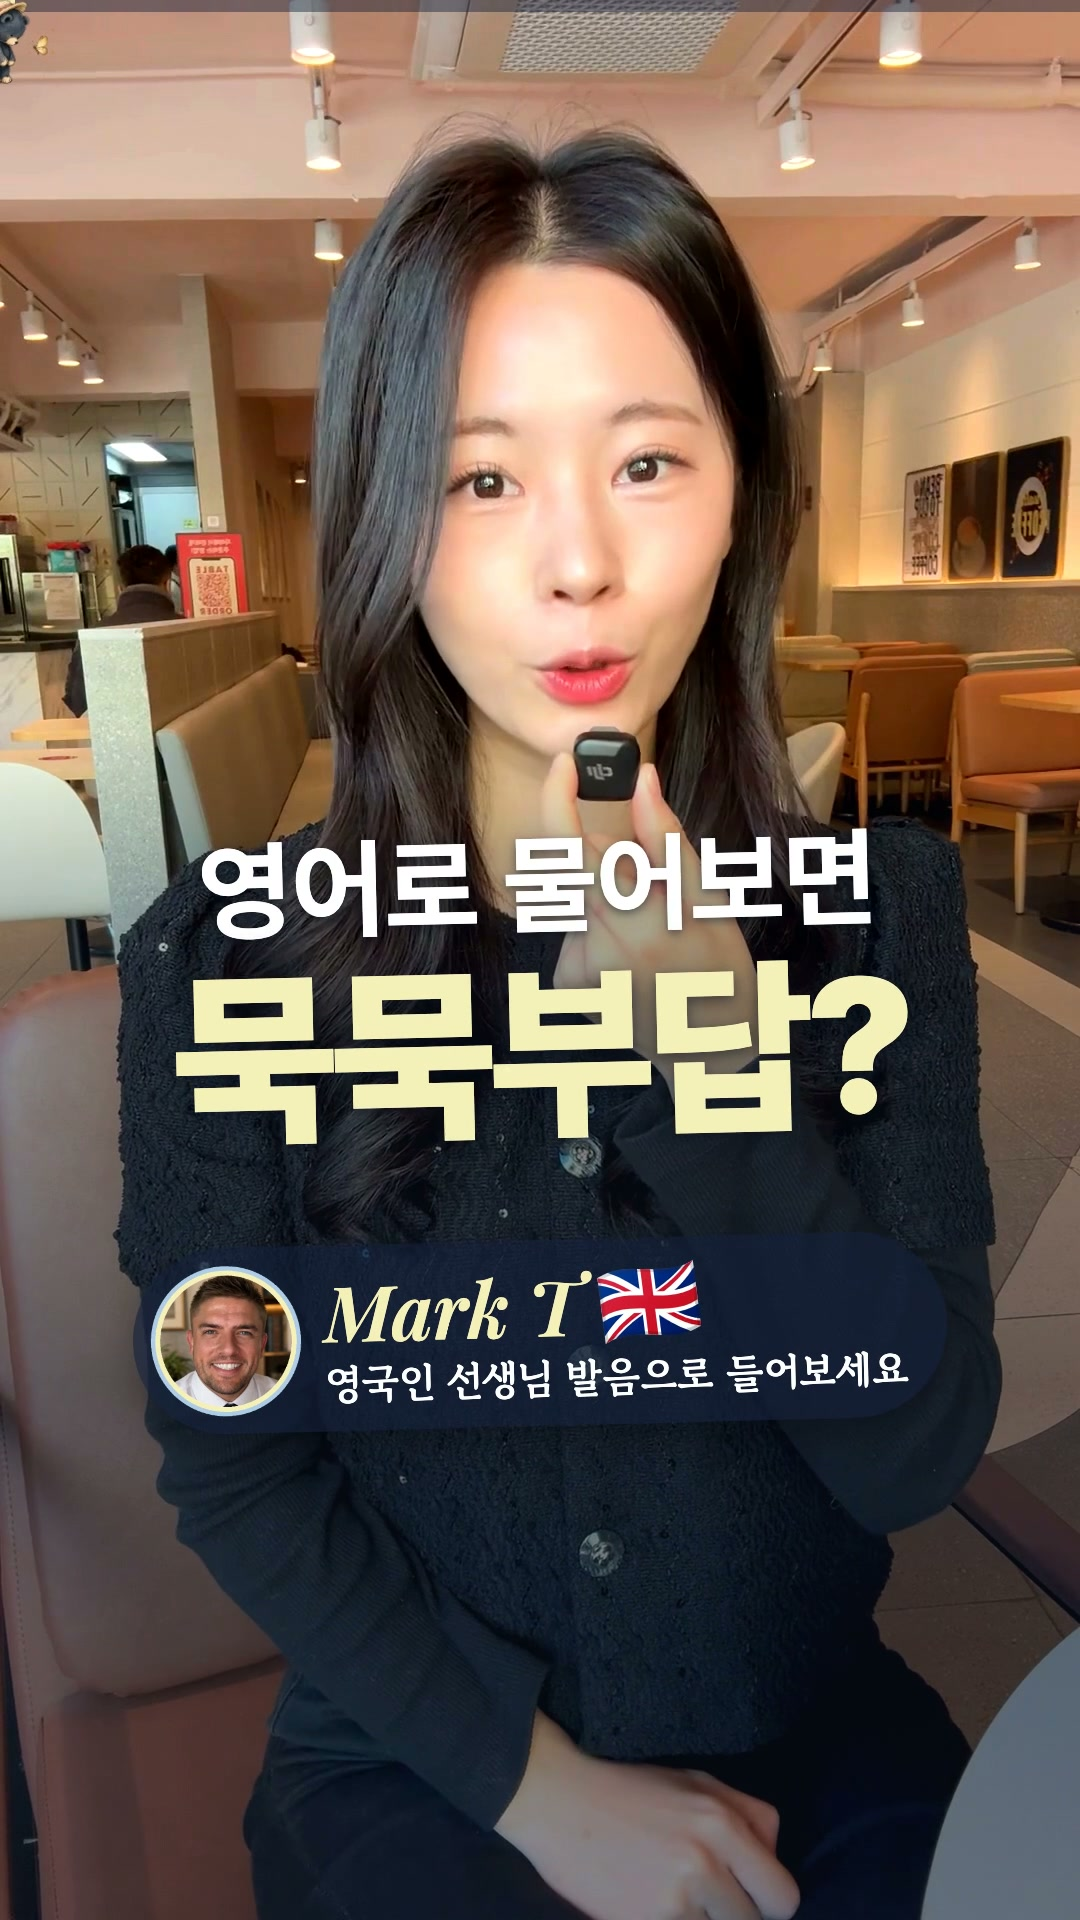
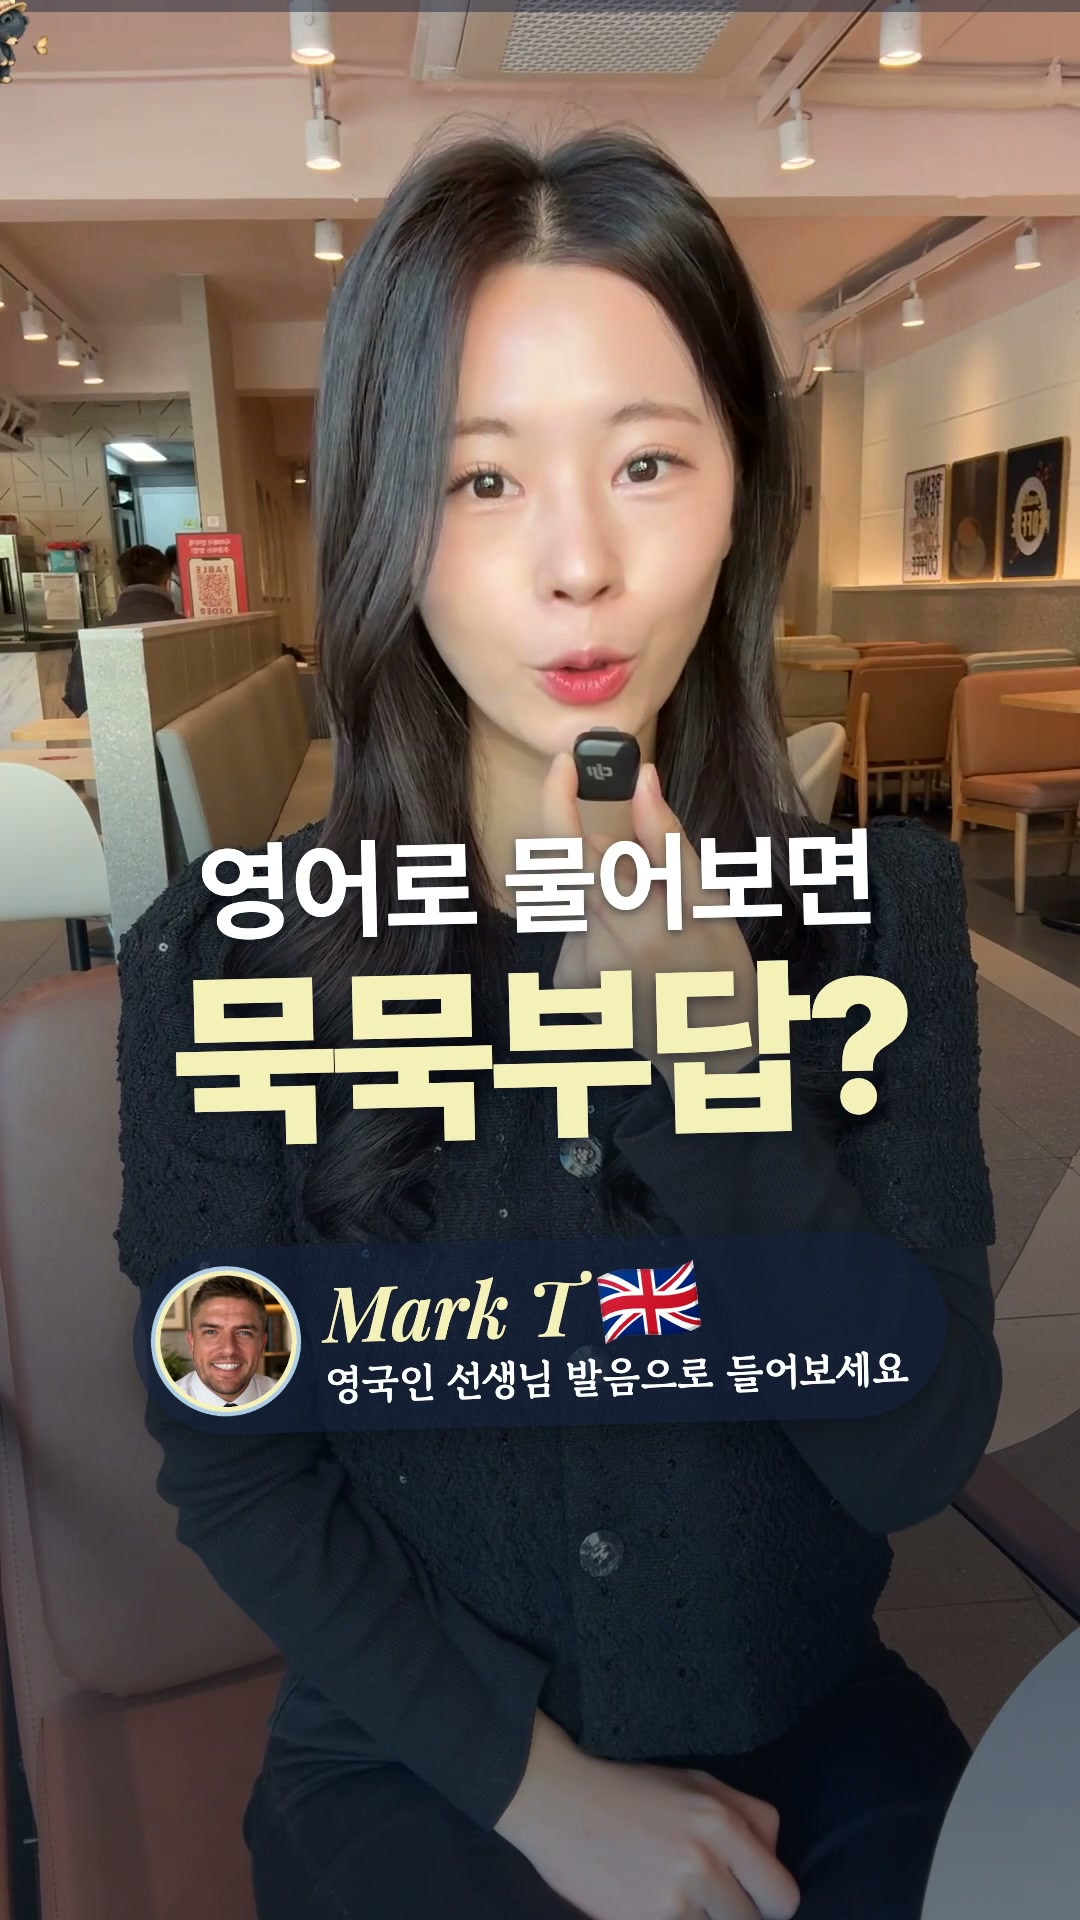
Day 28 v5 (Joy): original colours, clearer Mark lines, louder music

diff --git a/remotion/src/BearJoyReelV2.tsx b/remotion/src/BearJoyReelV2.tsx
@@ -18,6 +18,7 @@ export type PlanV2 = {
   media?: string;
   scrim?: boolean; // dark gradient behind the lower half, for light clothing or bright backgrounds
   slots?: Record<string, {left?: number; right?: number; top: number; rot: number}>; tagPos?: {left: number; top: number}; captionTop?: number;
+  look?: 'original'; // Joy, Day 28: keep the camera's own colours (no grade, grain or vignette)
 };
 
 const C = {navy: '#1E2D4D', ink: '#14203A', yellow: '#F6F0BA', blue: '#AECCE6', gold: '#C9A84C', cream: '#F5F0E6', white: '#FFFFFF', kakao: '#FEE500'};
@@ -387,7 +388,9 @@ export const BearJoyReelV2: React.FC<{plan: PlanV2}> = ({plan}) => {
   const live = (e: Ev, pad = 0.2) => t >= e.s - 0.05 && t <= e.e + pad;
   const cap = plan.captions.find((c) => t >= c.s && t < c.e);
   const camStyle: React.CSSProperties = {position: 'absolute', inset: 0, transform: `translate(${cam.x}px, ${cam.y}px) scale(${cam.z})`, transformOrigin: '50% 36%'};
-  const vid: React.CSSProperties = {width: '100%', height: '100%', objectFit: 'cover', filter: GRADE};
+  const orig = plan.look === 'original';
+  const grade = orig ? 'none' : GRADE;
+  const vid: React.CSSProperties = {width: '100%', height: '100%', objectFit: 'cover', filter: grade};
   // a cream pull-back (Joy, Day 28) keeps the cream clean: fade the vignette and caption scrim while it shows
   const cream = Math.max(0, ...E('pull').filter((e) => e.bg).map((e) => pullAmount(e, t)));
   return (
@@ -398,7 +401,7 @@ export const BearJoyReelV2: React.FC<{plan: PlanV2}> = ({plan}) => {
           <Sequence key={`b${k}`} from={from} durationInFrames={to - from} layout="none">
             <AbsoluteFill style={{opacity: pullAmount(ev, t)}}>
               {ev.bg ? <AbsoluteFill style={{background: ev.bg}} /> : <OffthreadVideo src={staticFile(`${dir}/cut.mov`)} muted trimBefore={from}
-                style={{...vid, transform: 'scale(1.4)', filter: `${GRADE} blur(36px) brightness(.85)`}} />}
+                style={{...vid, transform: 'scale(1.4)', filter: `${orig ? '' : GRADE} blur(36px) brightness(.85)`}} />}
             </AbsoluteFill>
           </Sequence>
         );
@@ -415,8 +418,8 @@ export const BearJoyReelV2: React.FC<{plan: PlanV2}> = ({plan}) => {
           );
         })}
       </div>
-      <AbsoluteFill style={{opacity: 1 - cream, background: 'radial-gradient(130% 85% at 50% 40%, rgba(0,0,0,0) 62%, rgba(20,32,58,.3) 100%)'}} />
-      <Grain frame={frame} />
+      {orig ? null : <AbsoluteFill style={{opacity: 1 - cream, background: 'radial-gradient(130% 85% at 50% 40%, rgba(0,0,0,0) 62%, rgba(20,32,58,.3) 100%)'}} />}
+      {orig ? null : <Grain frame={frame} />}
       {plan.scrim ? <AbsoluteFill style={{opacity: 1 - cream, background: 'linear-gradient(180deg, rgba(10,16,30,0) 38%, rgba(10,16,30,.42) 52%, rgba(10,16,30,.62) 72%, rgba(10,16,30,.45) 100%)'}} /> : null}
       {E('tag').map((ev, k) => (live(ev) ? <Tag key={k} ev={ev} t={t} fps={fps} pos={plan.tagPos} /> : null))}
       {E('cover').map((ev, k) => (live(ev) ? <Cover key={k} ev={ev} t={t} fps={fps} /> : null))}

diff --git a/projects/2026-11-day28-questions/mix.py b/projects/2026-11-day28-questions/mix.py
@@ -13,13 +13,15 @@ V = f"{HERE}/versions/main"
 plan = json.load(open(f"{V}/timeline_v2.json"))
 dur = plan["duration"]
 
-inputs = ["-i", "remotion/public/day28/main/cut.mov", "-ss", str(m0), "-i", music]
+# voice.wav = the cut audio with Mark's lines cleaned (voice.py, Joy 10 Nov 2026); fall back to the raw cut audio
+VOICE = f"{V}/audio/voice.wav" if os.path.exists(f"{V}/audio/voice.wav") else "remotion/public/day28/main/cut.mov"
+inputs = ["-i", VOICE, "-ss", str(m0), "-i", music]
 fc = [
     # Joy's mic voice (and Mark's recorded lines): tidy low end, gentle compression
-    f"[0:a]highpass=f=80,acompressor=threshold=-20dB:ratio=3:attack=8:release=120:makeup=3,apad=whole_dur={dur},asplit=2[voice][key]",
+    f"[0:a]aformat=sample_rates=48000:channel_layouts=stereo,highpass=f=80,acompressor=threshold=-20dB:ratio=3:attack=8:release=120:makeup=3,apad=whole_dur={dur},asplit=2[voice][key]",
     f"[1:a]aformat=sample_rates=48000:channel_layouts=stereo,volume={music_db}dB,atrim=0:{dur},afade=t=in:d=0.4,"
     f"afade=t=out:st={dur - 2.5}:d=2.5[mus0]",
-    "[mus0][key]sidechaincompress=threshold=0.03:ratio=3:attack=25:release=400[mus]",
+    "[mus0][key]sidechaincompress=threshold=0.05:ratio=2:attack=30:release=500[mus]",
 ]
 labels = ["[voice]", "[mus]"]
 for k, cue in enumerate(plan["sfx"]):
@@ -29,10 +31,10 @@ for k, cue in enumerate(plan["sfx"]):
     labels.append(f"[s{k}]")
 fc.append("".join(labels) + f"amix=inputs={len(labels)}:normalize=0:duration=first,atrim=0:{dur}[mix]")
 graph = ";".join(fc)
-m = subprocess.run(["ffmpeg", "-hide_banner", *inputs, "-filter_complex", graph + ";[mix]loudnorm=I=-14:TP=-1.5:LRA=11:print_format=json[o]",
+m = subprocess.run(["ffmpeg", "-hide_banner", *inputs, "-filter_complex", graph + ";[mix]loudnorm=I=-14:TP=-2.5:LRA=11:print_format=json[o]",
                     "-map", "[o]", "-f", "null", "-"], capture_output=True, text=True)
 j = json.loads(re.findall(r"\{[^{}]*\"input_i\"[^{}]*\}", m.stderr)[-1])
-ln = (f"loudnorm=I=-14:TP=-1.5:LRA=11:measured_I={j['input_i']}:measured_TP={j['input_tp']}:measured_LRA={j['input_lra']}:"
+ln = (f"loudnorm=I=-14:TP=-2.5:LRA=11:measured_I={j['input_i']}:measured_TP={j['input_tp']}:measured_LRA={j['input_lra']}:"
       f"measured_thresh={j['input_thresh']}:offset={j['target_offset']}:linear=true")
 os.makedirs(os.path.dirname(os.path.abspath(out)), exist_ok=True)
 shift = lambda g: re.sub(r"\[(\d+):a\]", lambda mm: f"[{int(mm.group(1)) + 1}:a]", g)

diff --git a/projects/2026-11-day28-questions/voice.py b/projects/2026-11-day28-questions/voice.py
@@ -1,0 +1,30 @@
+"""Clearer voice track for Day 28 (Joy, 10 Nov 2026: Mark's English sounded muffled).
+
+Mark's recorded lines reached Joy's mic through the room, so they are boomy and smeared. For his lines only:
+DeepFilterNet (noise + room reduction), then the Day 25 clarity EQ (less boom, more presence), a de-esser and compression.
+Joy's own voice stays as recorded. Writes versions/main/audio/voice.wav (48 kHz mono), which mix.py uses.
+Usage (repo root): tools/fx-venv/bin/python projects/2026-11-day28-questions/voice.py
+"""
+import json, os, subprocess
+import numpy as np, soundfile as sf
+HERE = os.path.dirname(os.path.abspath(__file__))
+A = f"{HERE}/versions/main/audio"
+os.makedirs(f"{A}/df", exist_ok=True)
+subprocess.run(["ffmpeg", "-v", "error", "-y", "-i", "remotion/public/day28/main/cut.mov", "-ac", "1", "-ar", "48000", f"{A}/raw.wav"], check=True)
+subprocess.run(["tools/deepfilter/deep-filter", "-a", "30", "-D", "-o", f"{A}/df", f"{A}/raw.wav"], check=True, capture_output=True)
+EQ = ("highpass=f=110:poles=2,lowshelf=f=220:g=-5,equalizer=f=400:t=q:w=1.2:g=-2.5,equalizer=f=1500:t=q:w=1:g=2,"
+      "equalizer=f=3000:t=q:w=0.9:g=5,deesser=i=0.35:f=0.45,highshelf=f=9000:g=2,"
+      "acompressor=threshold=-24dB:ratio=3:attack=5:release=100:makeup=2")
+subprocess.run(["ffmpeg", "-v", "error", "-y", "-i", f"{A}/df/raw.wav", "-af", EQ, "-ar", "48000", f"{A}/mark_clean.wav"], check=True)
+raw, sr = sf.read(f"{A}/raw.wav"); cl, _ = sf.read(f"{A}/mark_clean.wav")
+cl = cl[:len(raw)]; cl = np.pad(cl, (0, len(raw) - len(cl)))
+w = np.zeros(len(raw)); f = int(0.04 * sr)
+for a, b in json.load(open(f"{HERE}/versions/main/mark_ranges.json")):
+    i, j = int((a - 0.12) * sr), int((b + 0.15) * sr)
+    w[i:j] = 1
+    w[i - f:i] = np.linspace(0, 1, f); w[j:j + f] = np.linspace(1, 0, f)
+# match Mark's cleaned level to his original loudness (RMS within his lines) so the mix chain stays the same
+m = w > 0.99
+cl *= np.sqrt(np.mean(raw[m] ** 2) / max(np.mean(cl[m] ** 2), 1e-12))
+sf.write(f"{A}/voice.wav", raw * (1 - w) + cl * w, sr)
+print("voice ->", f"{A}/voice.wav")

diff --git a/projects/2026-11-day28-questions/build.py b/projects/2026-11-day28-questions/build.py
@@ -238,7 +238,7 @@ def build(db, name="main"):
 
     plan = {"name": f"day28-{name}", "media": f"day28/{name}", "fps": FPS, "duration": total, "frames": int(math.ceil(total * FPS)), "speechEnd": speech_end,
             "day": DAY, "segments": out, "captions": C, "events": ev, "zooms": zooms, "music": music,
-            "slots": SLOTS, "tagPos": TAG_POS, "scrim": True, "captionTop": CAPTION_TOP, "sfx": sorted(sfx, key=lambda x: x["t"])}
+            "slots": SLOTS, "tagPos": TAG_POS, "scrim": True, "look": "original", "captionTop": CAPTION_TOP, "sfx": sorted(sfx, key=lambda x: x["t"])}
     os.makedirs(f"{HERE}/versions/{name}", exist_ok=True)
     json.dump(plan, open(f"{HERE}/versions/{name}/timeline_v2.json", "w", encoding="utf8"), ensure_ascii=False, indent=1)
     print(f"{name}: {total:.1f}s ({speech_end:.1f}s speech, {len(out)} segments), {len(C)} captions, "

diff --git a/brand/BRAND.md b/brand/BRAND.md
@@ -112,3 +112,6 @@ No logo in the top-left of this film (owner, 5 Nov 2026): the version cut from t
 - **Mark's English lines (recorded voice):** a different font from the Korean captions (Playfair Display italic, lighting up sky blue as he speaks), Korean translation underneath, and his small avatar with a 🇬🇧 flag while he speaks.
 - **Mark's name on screen (Joy, 10 Nov 2026):** "Mark T" (not "마크 선생님"), in Playfair Display italic butter yellow, with a big 🇬🇧 flag (about 70–85 px) next to the name so it reads at a glance. In the hook a small pill introduces him: avatar, "Mark T 🇬🇧" and a Korean line in Gowun Batang Bold ("영국인 선생님 발음으로 들어보세요").
 - **Hook (Joy, 10 Nov 2026):** no long caption under the hook title; only the big title shows while the first sentence plays, with punch-ins for energy.
+- **Colour (Joy, 10 Nov 2026):** keep the camera's own colours on Joy's footage. The v2 grade (saturation + sepia) made skin look yellow. Plans set `"look": "original"` (no grade, grain or vignette).
+- **Mark's recorded lines:** clean them on their own (DeepFilterNet + clarity EQ, `projects/2026-11-day28-questions/voice.py`) so his English is crisp; Joy's voice stays as recorded.
+- **Music level:** the licensed track must be clearly audible under talking reels (Day 28 at -20 dB with heavy ducking was "almost inaudible"). Use about -15 dB with light ducking (ratio 2).

diff --git a/projects/2026-11-day28-questions/music/SOURCE.md b/projects/2026-11-day28-questions/music/SOURCE.md
@@ -1,4 +1,4 @@
 # Music: "Happy Advertising Hip-Hop (Magic Moments)" by BombinSound
-Reused from Day 25 (chosen by the owner by ear, 6 Nov 2026): projects/2026-11-day25-kyobo/music/magic-moments.mp3, at -20 dB, ducked under the voice.
+Reused from Day 25 (chosen by the owner by ear, 6 Nov 2026): projects/2026-11-day25-kyobo/music/magic-moments.mp3, at -20 dB, ducked under the voice. Raised to -15 dB with lighter ducking after Joy found it almost inaudible (10 Nov 2026).
 Source: https://pixabay.com/music/old-school-hip-hop-happy-advertising-hip-hop-magic-moments-628139/
 Licence: Pixabay Content License (free commercial use, no attribution needed).
